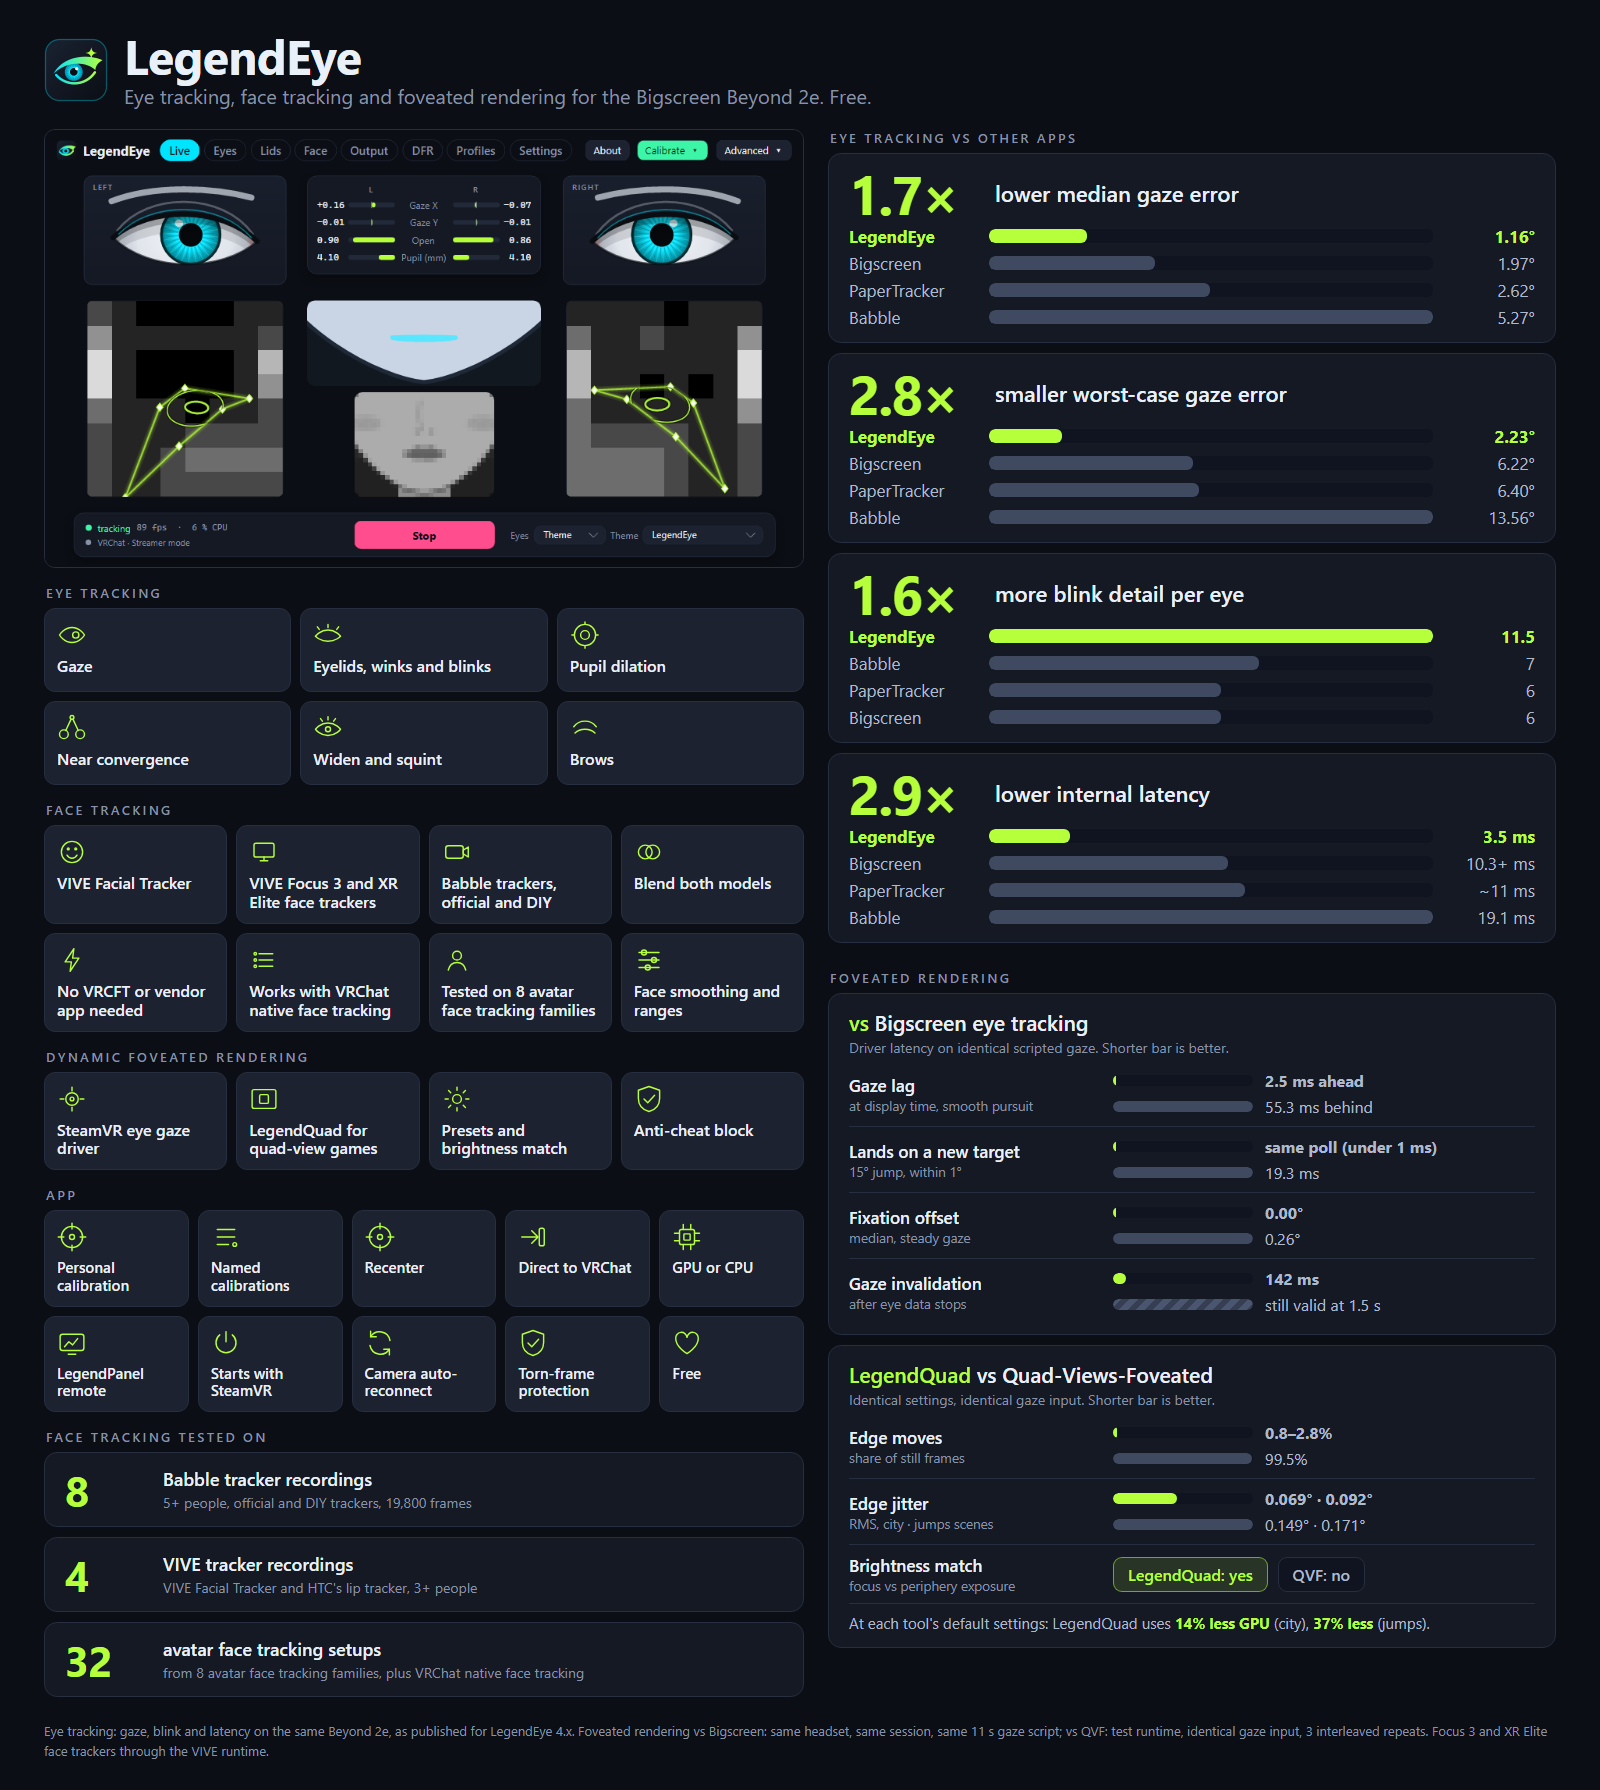
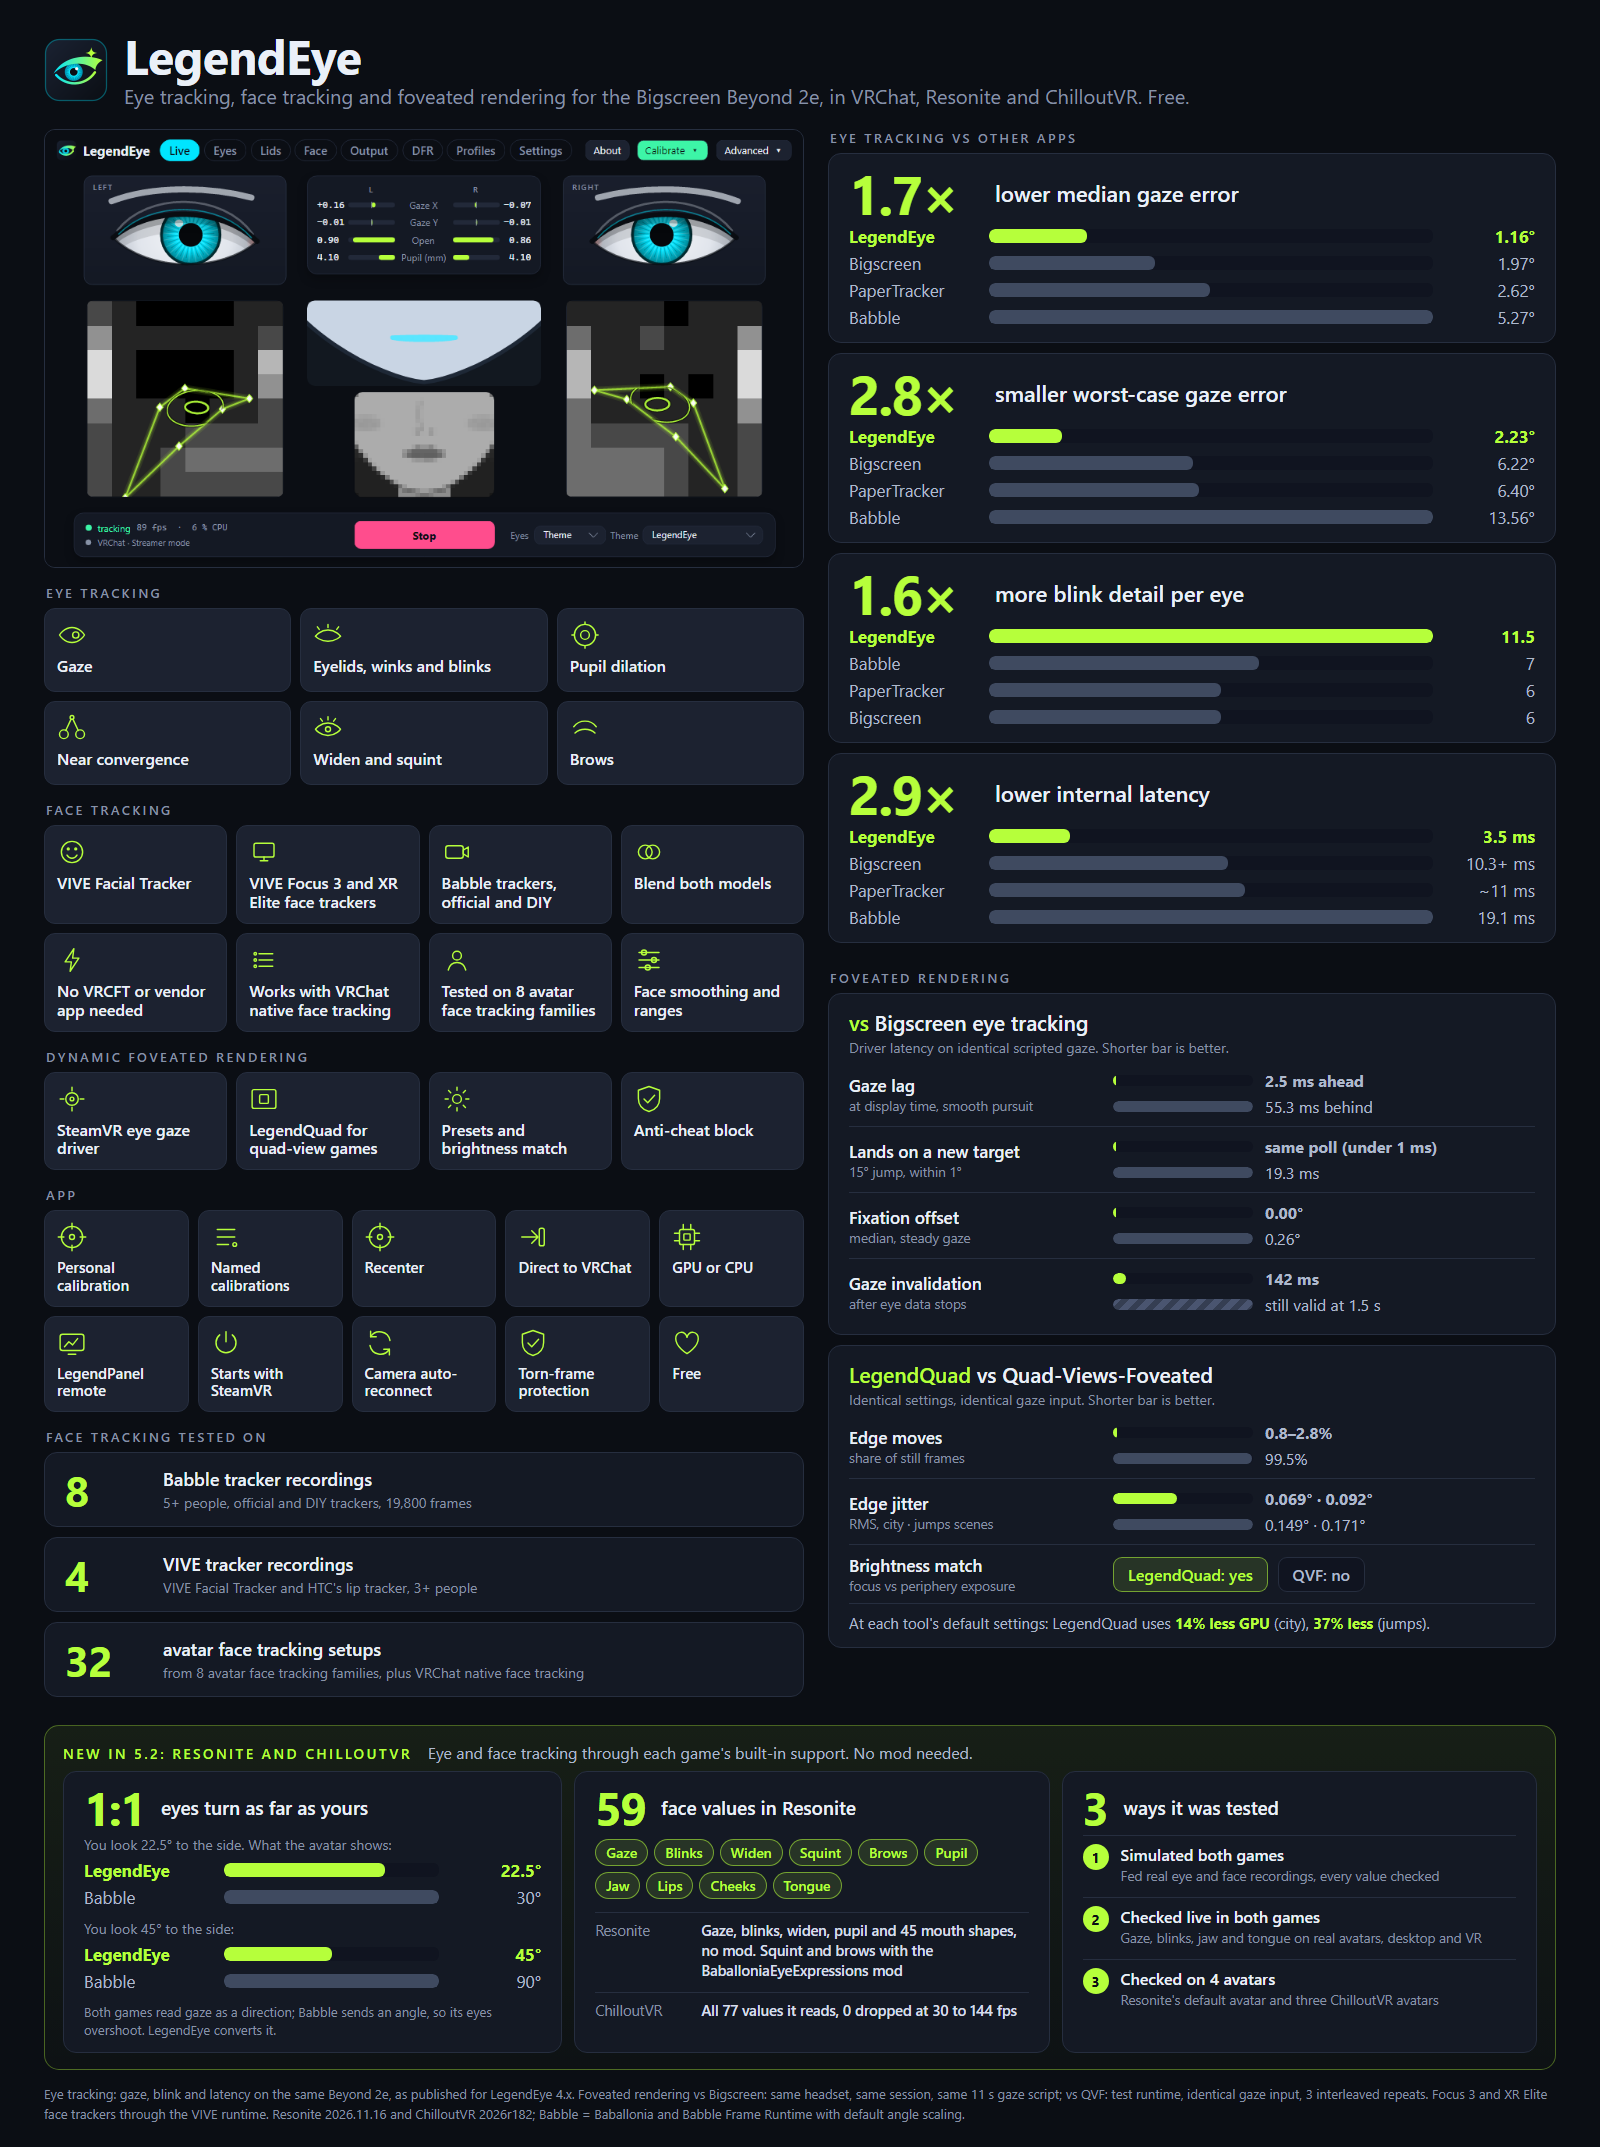
README: 5.2.0 (Resonite and ChilloutVR), new hero, download button, VirusTotal

Changed region(s): [[0.0, 0.0, 0.9688, 1.0], [0.9375, 0.0922, 0.9688, 0.3073], [0.9375, 0.4609, 0.9688, 0.5223]]

diff --git a/README.md b/README.md
@@ -2,12 +2,12 @@
 
 ## ⬇ Download
 
-<a href="https://github.com/Encapsulation/LegendEye/releases/latest/download/LegendEye.exe"><img src="docs/download-button.png" alt="Download Legend Eye 5.1.9" width="350"></a>
+<a href="https://github.com/Encapsulation/LegendEye/releases/latest/download/LegendEye.exe"><img src="docs/download-button.png" alt="Download Legend Eye 5.2.0" width="353"></a>
 
 One file: no installer, nothing to unpack. To update, replace the exe; your settings and calibrations are kept. [All releases](https://github.com/Encapsulation/LegendEye/releases)
 
-**VirusTotal (5.1.9):** [1 of 70 security vendors flagged it](https://www.virustotal.com/gui/file/6c6db4cb8857e03d96a167241d1944a9db3dec63ad9ee41d75dbeacfc3e0a7db)  
[1 lines of base64/hex data omitted]
+**VirusTotal (5.2.0):** [1 of 69 security vendors flagged it](https://www.virustotal.com/gui/file/dae60a5a4243404ba7ad669e947258b56a28210557ee1727e5bb78ed5872d55b)  
[1 lines of base64/hex data omitted]
 
 The single hit is Trapmine "Suspicious.low.ml.score": a machine-learning guess, not a malware signature. It is triggered by how LegendEye ships: one self-contained EXE with its models and runtime packed inside, which looks unusual to generic scanners. Microsoft Defender and every major antivirus report it clean.
 
@@ -16,7 +16,28 @@ Windows may show "Windows protected your PC" the first time, because the app isn
 # LegendEye
 
 
-Eye tracking, face tracking and dynamic foveated rendering for the **Bigscreen Beyond 2e**. Free to use.
+Eye tracking, face tracking and dynamic foveated rendering for the **Bigscreen Beyond 2e**, in VRChat, Resonite and ChilloutVR. Free to use.
+
+## What's new in 5.2
+
+#### Resonite
+- Eye and face tracking in Resonite, through Resonite's built-in face and eye tracking. No mod needed.
+- Sends gaze, blinks, widen, pupil size and the full mouth: jaw, lips, cheeks and tongue.
+- Your avatar's eyes turn exactly as far as yours. Babble sends gaze as an angle (1 = 45°), but Resonite and ChilloutVR read it as a direction, so with Babble a 22.5° look shows as 30° and a 45° look as 90°. LegendEye turns its gaze into the direction both games expect, so a 22.5° look shows as 22.5°.
+- Squint and brows go out too. Resonite shows them with the BaballoniaEyeExpressions mod (needs ResoniteModLoader).
+- Setup: if Babble isn't installed on your PC, add `-ForceBabble` to Resonite's launch options in Steam once. The Resonite tab under Output tells you whether you need it.
+- LegendEye sends only while Resonite is running. Turn it off on the Resonite tab.
+
+#### ChilloutVR
+- Eye and face tracking in ChilloutVR, through ChilloutVR's built-in OSC face and eye tracking. No mod needed.
+- Sends gaze, blinks, widen, squint, brows, pupil size and the full mouth: jaw, lips, cheeks and tongue.
+- Your avatar's eyes turn exactly as far as yours, with the same gaze conversion as Resonite (no overshoot).
+- Sends only the 77 values ChilloutVR reads, so none get dropped, even when the frame rate dips.
+- Setup in ChilloutVR: Settings > Implementation > OSC on, then set Eye Tracking Module and Mouth Tracking Module to OSC. On each avatar, turn on CVR/Face Tracking in the Quick Menu's Advanced Avatars page.
+- Winks need an avatar with separate left and right blinks. How far the eyes turn is limited by each avatar's own eye settings.
+- LegendEye sends to ChilloutVR while it is running and VRChat isn't. Turn it off on the ChilloutVR tab.
+
+Both games were tested on real eye and face recordings and live in game.
 
 ## What's new in 5.1.9
 
